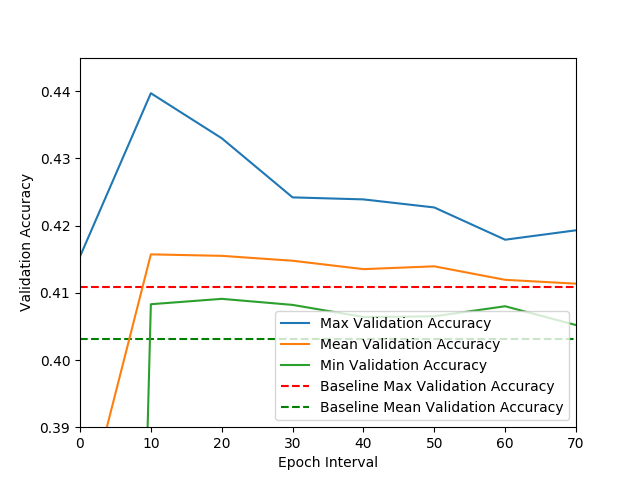
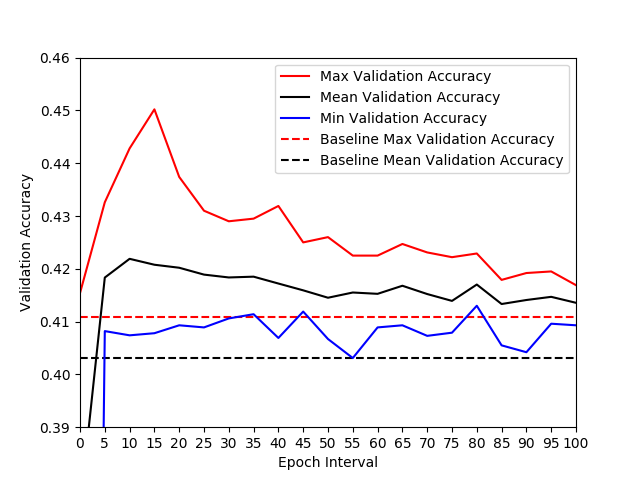
experiment 3 plotting and plots

diff --git a/post-experiment/experiment-1/plot.py b/post-experiment/experiment-1/plot.py
@@ -5,11 +5,11 @@ import numpy as np
 import os
 import re
 
-PATH_TO_STUDENT_MODELS = "results/ESKD_Knowledge_Distillation_cifar100_2_16-12-19_23:17:30/models"
+PATH_TO_STUDENT_MODELS = "results/experiment-3/ESKD_Knowledge_Distillation_cifar100_2_18-12-19_18:04:58/models"
 PATH_TO_FIGURES = "results/figures"
 
 
-def group_results_by_interval_to_vacc(min_epoch=0, max_epoch=200, epoch_interval=10) -> list:
+def group_results_by_interval_to_vacc(min_epoch=0, max_logit_epochs=100, max_epoch=200, epoch_interval=5) -> list:
     """
     Parse results for validation accuracy and interval and group by interval
     :param min_epoch: Minimum epoch value for results
@@ -19,7 +19,7 @@ def group_results_by_interval_to_vacc(min_epoch=0, max_epoch=200, epoch_interval
     """
     # Collecting student model results and building dict for each epoch interval
     student_results = os.listdir(PATH_TO_STUDENT_MODELS)
-    results_groups = [[] for i in range(min_epoch, max_epoch + epoch_interval, epoch_interval)]
+    results_groups = [[] for i in range(min_epoch, max_logit_epochs + epoch_interval, epoch_interval)]
     for result in student_results:
         interval, vacc = re.findall(rf"model_2_(\d+)\|{max_epoch}_\d+_(\d+.\d+)", result)[0]
         interval = int(interval)
@@ -50,7 +50,7 @@ def plot_student_models():
 
 def plot_epoch_against_vacc(min_epoch=0, max_epoch=200, epoch_interval=10):
     # Grabbing file names from experiment directory and grouping by iteration interval
-    grouped_results = group_results_by_interval_to_vacc(min_epoch=min_epoch, max_epoch=max_epoch, epoch_interval=epoch_interval)
+    grouped_results = group_results_by_interval_to_vacc()
     epoch_intervals = np.arange(min_epoch, max_epoch + epoch_interval, epoch_interval)
 
     # Calculating max, average, and minimum values for each interval
@@ -68,66 +68,68 @@ def plot_epoch_against_vacc(min_epoch=0, max_epoch=200, epoch_interval=10):
     # Plotting min, average, and max on same graph
     plt.figure(0)
     # Plotting max validation accuracy against interval
-    plt.plot(epoch_intervals, vacc_max, label="Max Validation Accuracy")
+    plt.plot(epoch_intervals, vacc_max, label="Max Validation Accuracy", color="r")
     # Plotting mean validation accuracy against interval
-    plt.plot(epoch_intervals, vacc_avg, label="Mean Validation Accuracy")
+    plt.plot(epoch_intervals, vacc_avg, label="Mean Validation Accuracy", color="k")
     # Plotting min validation accuracy against interval
-    plt.plot(epoch_intervals, vacc_min, label="Min Validation Accuracy")
+    plt.plot(epoch_intervals, vacc_min, label="Min Validation Accuracy", color="b")
     plt.hlines(0.4109, 0, 200, colors="r", linestyles="dashed", label="Baseline Max Validation Accuracy")
-    plt.hlines(0.403121739, 0, 200, colors='g', linestyles="dashed", label="Baseline Mean Validation Accuracy")
+    plt.hlines(0.403121739, 0, 200, colors='k', linestyles="dashed", label="Baseline Mean Validation Accuracy")
 
     plt.xlabel("Epoch Interval")
     plt.xticks(epoch_intervals)
     plt.ylabel("Validation Accuracy")
-    plt.ylim((0.39, 0.445))
-    plt.xlim((0, 70))
+    plt.ylim((0.39, 0.46))
+    plt.xlim((0, 100))
     plt.legend(loc="lower right")
+    plt.legend(bbox_to_anchor=(1.0, 1.0))
     save_path = os.path.join(PATH_TO_FIGURES, "max_mean_min.png")
     plt.savefig(save_path)
     plt.show()
+    #
+    # # Plotting average and max
+    # plt.figure(1)
+    # # Plotting max validation accuracy against interval
+    # plt.plot(epoch_intervals, vacc_max, label="Max Validation Accuracy")
+    # # Plotting mean validation accuracy against interval
+    # plt.plot(epoch_intervals, vacc_avg, label="Mean Validation Accuracy")
+    # plt.xlabel("Epoch Interval")
+    # plt.xticks(epoch_intervals)
+    # plt.ylabel("Validation Accuracy")
+    # plt.ylim((0.39, 0.46))
+    # plt.legend(loc="lower right")
+    # plt.show()
+    #
+    # # Plotting min and average
+    # plt.figure(2)
+    # # Plotting min validation accuracy against interval
+    # plt.plot(epoch_intervals, vacc_min, label="Min Validation Accuracy")
+    # # Plotting mean validation accuracy against interval
+    # plt.plot(epoch_intervals, vacc_avg, label="Mean Validation Accuracy")
+    # plt.xlabel("Epoch Interval")
+    # plt.xticks(epoch_intervals)
+    # plt.ylabel("Validation Accuracy")
+    # plt.ylim((0.39, 0.46))
+    # plt.legend(loc="lower right")
+    # plt.show()
+    #
+    # # Plotting min and max
+    # plt.figure(3)
+    # # Plotting min validation accuracy against interval
+    # plt.plot(epoch_intervals, vacc_min, label="Min Validation Accuracy")
+    # # Plotting max validation accuracy against interval
+    # plt.plot(epoch_intervals, vacc_max, label="Max Validation Accuracy")
+    # plt.xlabel("Epoch Interval")
+    # plt.xticks(epoch_intervals)
+    # plt.ylabel("Validation Accuracy")
+    # plt.ylim((0.39, 0.46))
+    # plt.legend(loc="lower right")
+    # plt.show()
 
-    # Plotting average and max
-    plt.figure(1)
-    # Plotting max validation accuracy against interval
-    plt.plot(epoch_intervals, vacc_max, label="Max Validation Accuracy")
-    # Plotting mean validation accuracy against interval
-    plt.plot(epoch_intervals, vacc_avg, label="Mean Validation Accuracy")
-    plt.xlabel("Epoch Interval")
-    plt.xticks(epoch_intervals)
-    plt.ylabel("Validation Accuracy")
-    plt.ylim((0.39, 0.445))
-    plt.legend(loc="lower right")
-    plt.show()
 
-    # Plotting min and average
-    plt.figure(2)
-    # Plotting min validation accuracy against interval
-    plt.plot(epoch_intervals, vacc_min, label="Min Validation Accuracy")
-    # Plotting mean validation accuracy against interval
-    plt.plot(epoch_intervals, vacc_avg, label="Mean Validation Accuracy")
-    plt.xlabel("Epoch Interval")
-    plt.xticks(epoch_intervals)
-    plt.ylabel("Validation Accuracy")
-    plt.ylim((0.39, 0.42))
-    plt.legend(loc="lower right")
-    plt.show()
-
-    # Plotting min and max
-    plt.figure(3)
-    # Plotting min validation accuracy against interval
-    plt.plot(epoch_intervals, vacc_min, label="Min Validation Accuracy")
-    # Plotting max validation accuracy against interval
-    plt.plot(epoch_intervals, vacc_max, label="Max Validation Accuracy")
-    plt.xlabel("Epoch Interval")
-    plt.xticks(epoch_intervals)
-    plt.ylabel("Validation Accuracy")
-    plt.ylim(0.39, 0.445)
-    plt.legend(loc="lower right")
-    plt.show()
-
-
-def group_results_by_interval_to_temp_vacc(min_epoch=0, max_epoch=200, epoch_interval=10,
+def group_results_by_interval_to_temp_vacc(min_epoch=0, max_logit_epochs=100, max_epoch=200, epoch_interval=10,
                                            min_temp = 0, max_temp = 20, temp_interval = 2) -> list:
+
     """
     Parse results for validation accuracy and interval and group by interval
     :param min_epoch: Minimum epoch value for results
@@ -137,7 +139,8 @@ def group_results_by_interval_to_temp_vacc(min_epoch=0, max_epoch=200, epoch_int
     """
     # Collecting student model results and building dict for each epoch interval
     student_results = os.listdir(PATH_TO_STUDENT_MODELS)
-    results_groups = [np.zeros((max_epoch + epoch_interval - min_epoch)//epoch_interval) for i in range(min_temp, max_temp + temp_interval, temp_interval)]
+    # results_groups = [np.zeros((max_epoch + epoch_interval - min_epoch)//epoch_interval) for i in range(min_epoch, max_logit_epochs + epoch_interval, epoch_interval)]
+    results_groups = [np.zeros((max_logit_epochs + epoch_interval - min_epoch)//epoch_interval) for i in range(min_temp, max_temp + temp_interval, temp_interval)]
     for result in student_results:
         interval, temp, vacc = re.findall(rf"model_2_(\d+)\|{max_epoch}_(\d+)_(\d+.\d+)", result)[0]
         interval = int(interval)
@@ -147,18 +150,21 @@ def group_results_by_interval_to_temp_vacc(min_epoch=0, max_epoch=200, epoch_int
     return results_groups
 
 
-def plot_epoch_against_temp_against_vacc(min_epoch = 0, max_epoch = 200, epoch_interval=10,
+def plot_epoch_against_temp_against_vacc(min_epoch=0, max_logit_epochs=100, max_epoch=200, epoch_interval=10,
                                          min_temp=0, max_temp=20, temp_interval=2):
-    grouped_results = group_results_by_interval_to_temp_vacc(min_epoch=min_epoch, max_epoch=max_epoch, epoch_interval=epoch_interval)
-    epoch_intervals = np.arange(min_epoch, max_epoch + epoch_interval, epoch_interval)
+    grouped_results = group_results_by_interval_to_temp_vacc(min_epoch=min_epoch, max_logit_epochs=max_logit_epochs,
+                                                             max_epoch=max_epoch, epoch_interval=epoch_interval,
+                                                             min_temp=min_temp, max_temp=max_temp,
+                                                             temp_interval=temp_interval)
+    epoch_intervals = np.arange(min_epoch, max_logit_epochs + epoch_interval, epoch_interval)
     temp_intervals = np.arange(min_temp, max_temp + temp_interval, temp_interval)
 
     fig, ax = plt.subplots()
 
     ax.set_title("Validation Accuracy w.r.t Temperature and Epoch Interval")
 
-    ax.set_xlabel("Temperature")
-    ax.set_ylabel("Epoch Interval")
+    ax.set_xlabel("Epoch Interval")
+    ax.set_ylabel("Temperature")
 
     ax.set_xticks([0, 1, 2, 3, 4, 5, 6, 7, 8, 9, 10, 11, 12, 13, 14, 15, 16, 17, 18, 19, 20])
     ax.set_yticks([0, 1, 2, 3, 4, 5, 6, 7, 8, 9, 10])
@@ -168,14 +174,18 @@ def plot_epoch_against_temp_against_vacc(min_epoch = 0, max_epoch = 200, epoch_i
              rotation_mode="anchor")
     ax.set_yticklabels(temp_intervals)
 
-    plt.pcolor(grouped_results, cmap="tab10", vmin=0.39, vmax=0.445)
+    # colormode = "afmhot"
+    colormode = "rainbow"
+    plt.pcolor(grouped_results, cmap=colormode, vmin=0.40420, vmax=0.45020)
     plt.colorbar()
 
-    save_path = os.path.join(PATH_TO_FIGURES, "epoch_temp_vacc_tab10.png")
+    plotname = "epoch_temp_vacc_"+colormode+".png"
+    save_path = os.path.join(PATH_TO_FIGURES, plotname)
     plt.savefig(save_path)
 
     plt.show()
 
 if __name__ == "__main__":
-    plot_epoch_against_vacc()
-    plot_epoch_against_temp_against_vacc()
+    plot_epoch_against_vacc(min_epoch=0, max_epoch=100, epoch_interval=5)
+    plot_epoch_against_temp_against_vacc(min_epoch=0, max_logit_epochs=100, max_epoch=200, epoch_interval=5,
+                                         min_temp=0, max_temp=10, temp_interval=1)
